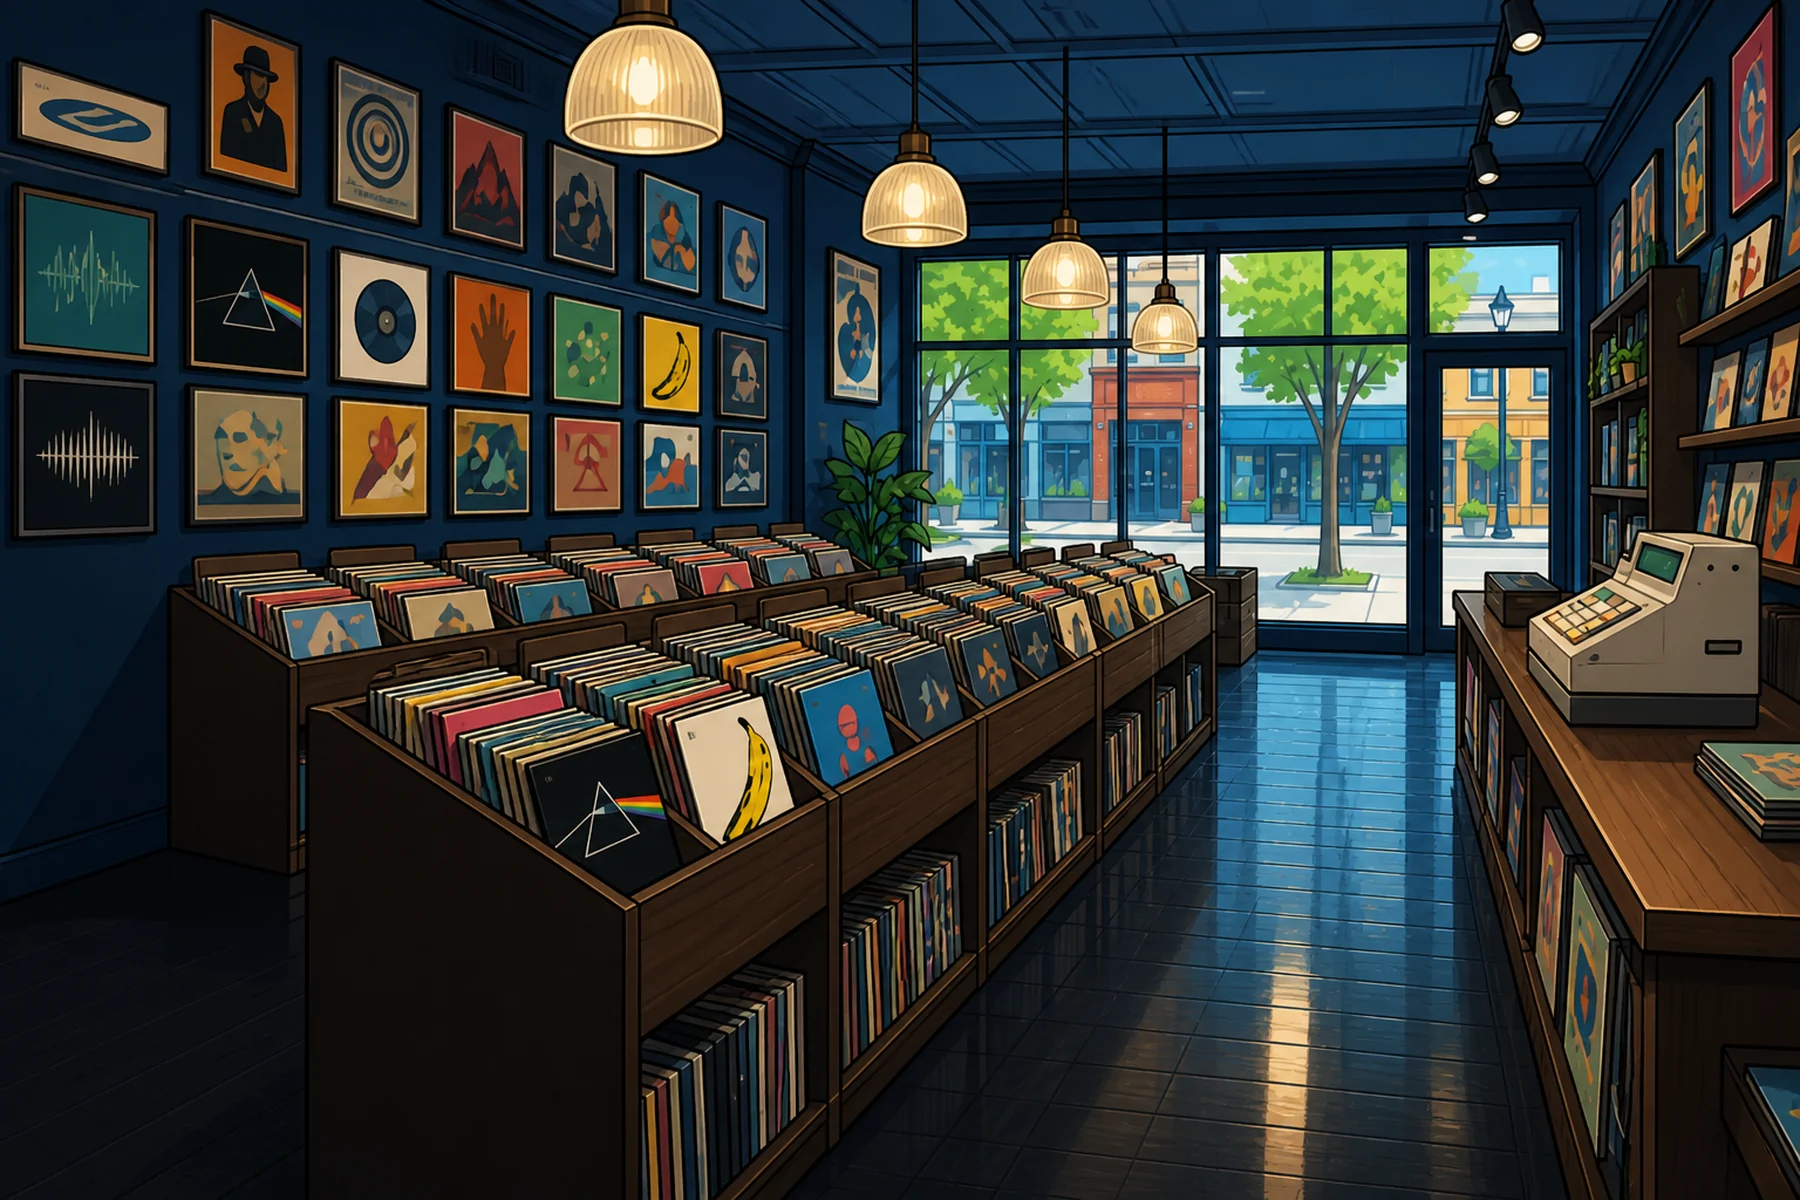
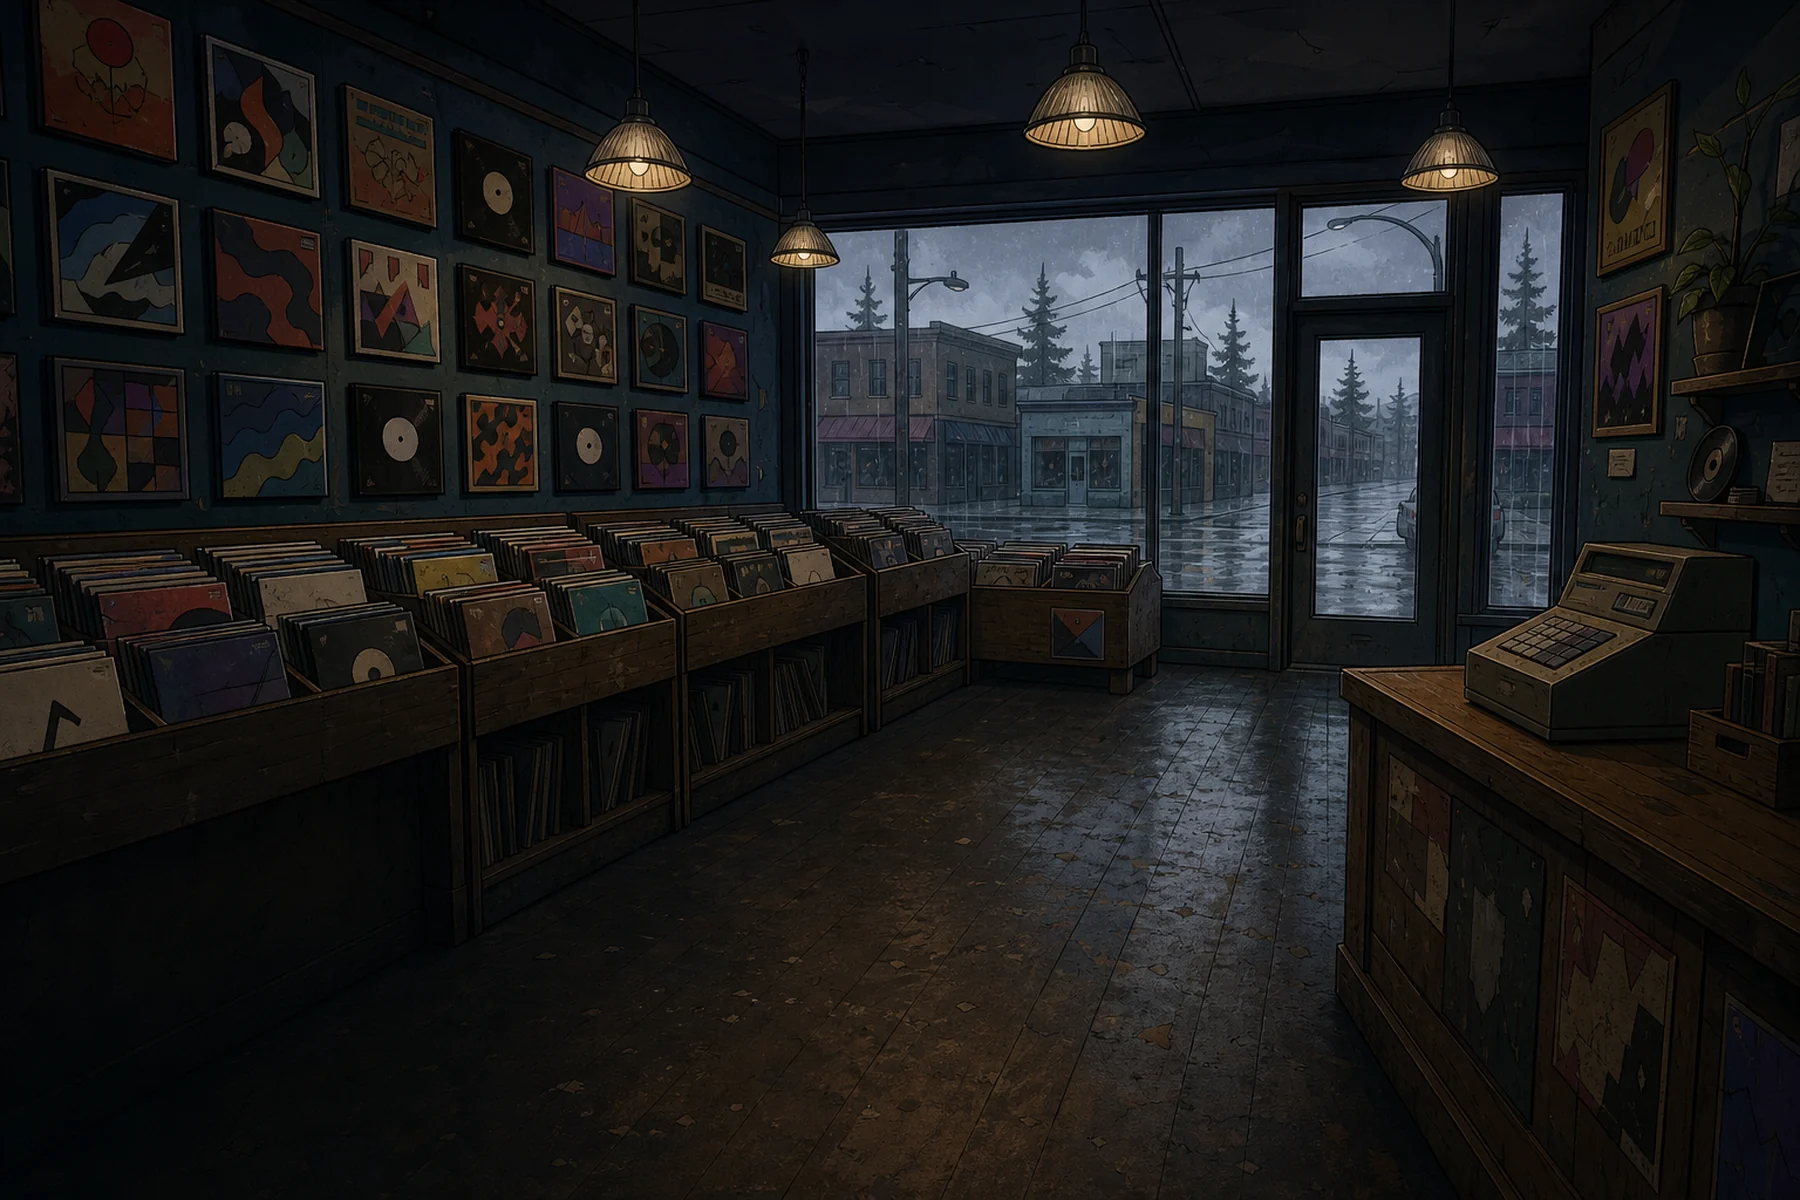
Dark grungy PNW cartoon for Artists place beat (#296)
* Restyle Artists place shop as dark grungy PNW cartoon

Replace the bright boutique illustration with a rainy Hey Arnold–style
empty record shop and generic album art only—no known covers.

* Update place image alt for dark PNW shop illustration

---------

diff --git a/index.html b/index.html
@@ -1745,7 +1745,7 @@
   <!-- Place — one PNW beat between catalog and news -->
   <section class="place" aria-labelledby="place-title">
     <div class="place-frame" aria-hidden="true">
-      <img class="place-img" src="place-shop-y2k.webp" alt="Cartoon record shop interior — Club Copy" width="1800" height="1200" loading="lazy" decoding="async"/>
+      <img class="place-img" src="place-shop-y2k.webp" alt="Dark PNW cartoon record shop — Club Copy" width="1800" height="1200" loading="lazy" decoding="async"/>
       <div class="place-veil"></div>
     </div>
     <div class="place-copy rv">
